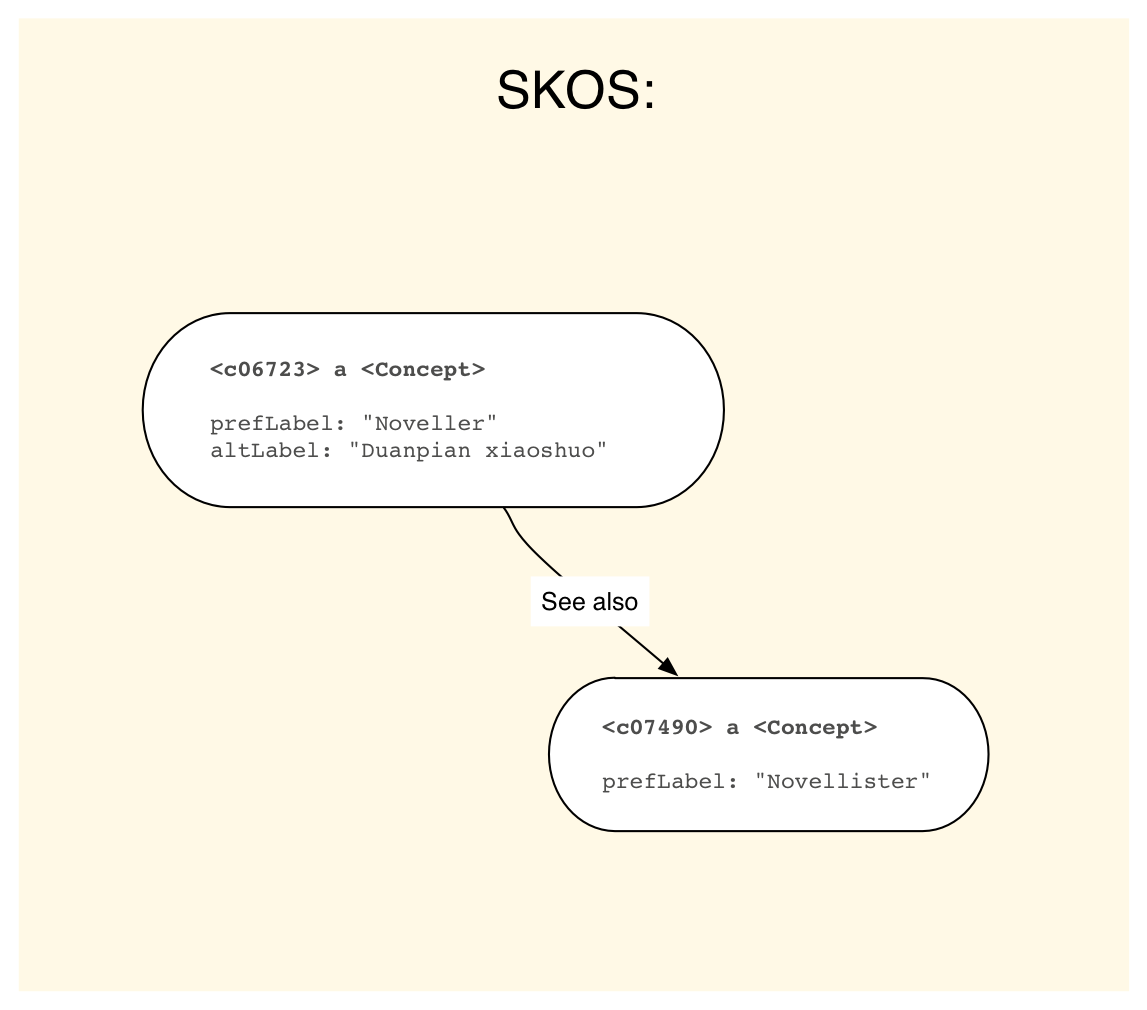
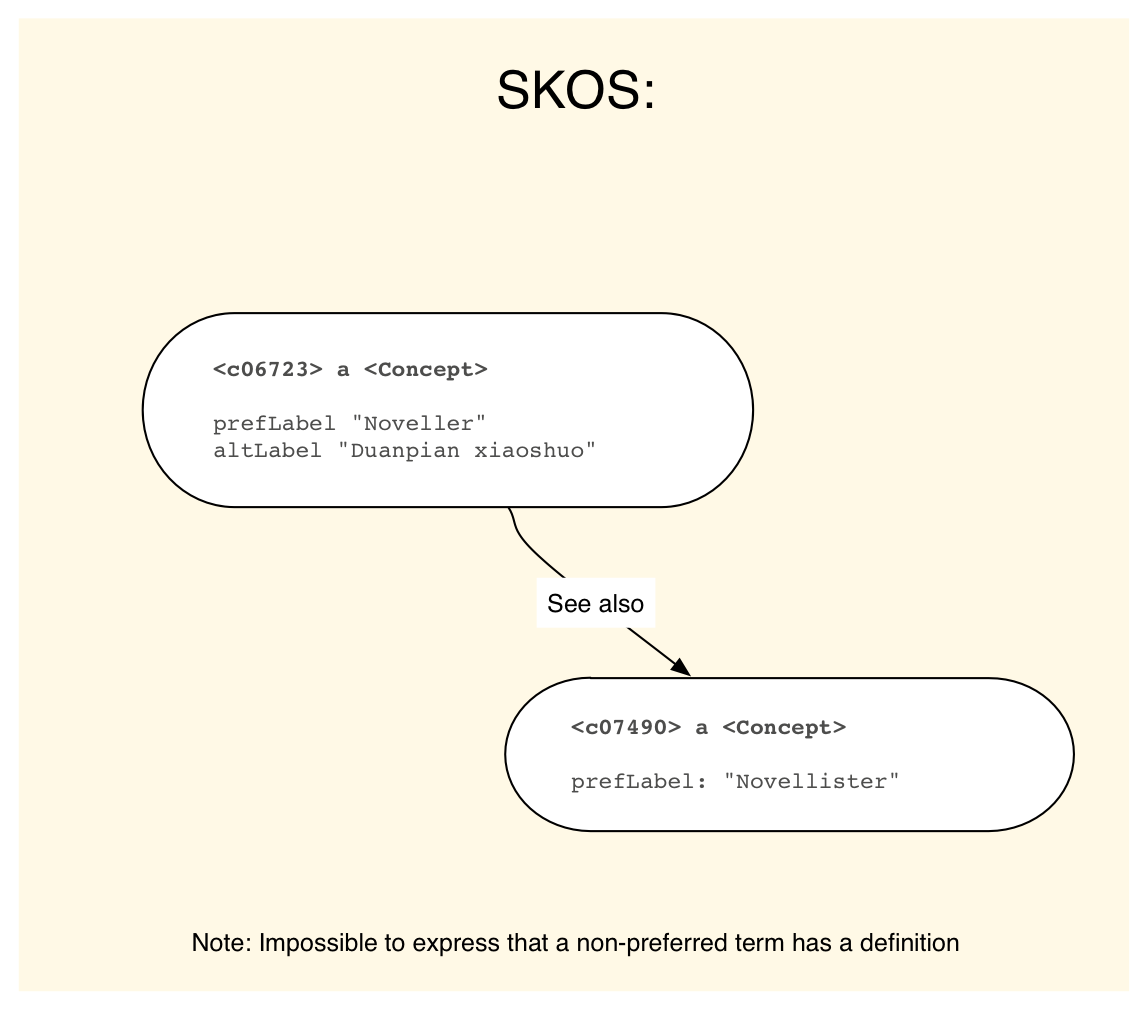
Update

diff --git a/test.md b/test.md
@@ -1,10 +1,8 @@
-<!--
-Jeg husker fortsatt godt en diskusjon vi hadde på et av de første møtene om hva vi skulle mappe. Vi som kom fra Realfagstermer snakket om "begreper". Det samme gjorde Are, som hadde lest seg opp på SKOS, en veldig begrepssentrert modell. Unni derimot snakket om termer.
 
-Det som ikke gikk opp for meg da var at det faktisk er et markant skille mellom datamodellen i Realfagstermer og Humord. Mens Realfagstermer er begrepsbasert og ligger nærmere SKOS og ISO 25694, er Humord termbasert og ligger nærmere ISO 2788. Grunnen til at jeg ikke la merke til det er at de to modellene i stor grad er kompatible. Det er lett å forestille seg hvordan to termer relatert gjennom en "SE"-relasjon er uttrykk for det samme underliggende begrepet, selv om begreper ikke er eksplisitt uttrykt i ISO 2788.
+Det som ikke gikk opp for meg da var at det faktisk er et markant skille mellom datamodellen i Realfagstermer og Humord. Mens Realfagstermer er begrepsbasert og ligger nærmere SKOS og ISO 25694, er Humord termbasert og ligger nærmere ISO 2788. Grunnen til at jeg ikke la merke til det er at de to modellene i stor grad er kompatible. Det er lett å forestille seg hvordan to termer relatert gjennom en "SE"-relasjon er uttrykk for det samme underliggende begrepet, selv om begreper ikke er eksplisitt uttrykt i ISO 2788 (OK, jeg må innrømme at jeg ikke har lest ISO 2788).
 
 Men djevelen ligger som vanlig i detaljene. Det gikk et lys opp for meg da Grete skrev om note-felter på se-henvisninger. Disse er så sjeldne i Humord at jeg hadde oversett dem, men de finnes altså;
--->
+
 
 	HUME06723
 	TE Noveller
@@ -20,20 +18,19 @@ Men djevelen ligger som vanlig i detaljene. Det gikk et lys opp for meg da Grete
 
 La oss tegne det slik:
 
-![ISO 2788](https://cdn.rawgit.com/danmichaelo/test/88e6882ff0266f06c47a1993b064d601dadbb337/iso2788.svg)
+<img src="iso2788.png" alt="ISO 2788" style="width:600px;">
 
 Hvordan ser dette ut som SKOS?
 
-![SKOS](https://cdn.rawgit.com/danmichaelo/test/88e6882ff0266f06c47a1993b064d601dadbb337/skos.svg)
+<img src="skos.png" alt="SKOS" style="width:600px;">
 
 Siden altLabel er literaler, ikke klasser, har vi rett og slett ingen mulighet til å legge på definisjonen "Kinesisk kortnovelle". Bam! Man begynner å forstå hvorfor noen tok seg bryet med å lage SKOS-XL:
 
-
-![SKOS-XL](https://cdn.rawgit.com/danmichaelo/test/88e6882ff0266f06c47a1993b064d601dadbb337/skosxl.svg)
+<img src="skosxl.png" alt="SKOS-XL" style="width:600px;">
 
 som ligger nærmere en viss standard:
 
-![ISO 25964](https://cdn.rawgit.com/danmichaelo/test/88e6882ff0266f06c47a1993b064d601dadbb337/iso25964.svg)
+<img src="iso25964.png" alt="ISO 25964" style="width:600px;">
 
 Her ser vi godt at ISO 25964 er mye mer komplisert enn ISO 2788.
 Selv om ISO 25964, som SKOS, er begrepssentrert, tar den også opp i seg at termer er entiteter som selv kan ha noter og definisjoner.
@@ -44,14 +41,13 @@ Spørsmålet er selvfølgelig: trenger vi kompleksisteten i ISO 25964 og SKOS-XL
 
 Det kan også være interessant å ta en titt på MADS
 
-![SKOS](https://cdn.rawgit.com/danmichaelo/test/88e6882ff0266f06c47a1993b064d601dadbb337/mads.svg)
+<img src="mads.png" alt="MADS" style="width:600px;">
 
 Merk at MADS er "not intended to be a crosswalk that allows for bi-directional conversions without some loss of data". http://www.loc.gov/standards/mads/mads-mapping.html#mapping
 
 I MARC21 er det ulike måter å uttrykke se-henvisninger. Med *simple cross references* uttrykkes strengene direkte i tracing fields som "unauthorized headings" – uten noen egen MARC-post! Med *complex cross references* har referansene egen MARC-post. En post med 008/09 b [untraced reference record] nærmer seg antakelig det vi har i Humord.
 
-![SKOS](https://cdn.rawgit.com/danmichaelo/test/88e6882ff0266f06c47a1993b064d601dadbb337/gnd.svg)
-
+<img src="gnd.png" alt="GND" style="width:600px;">
 
 
 
